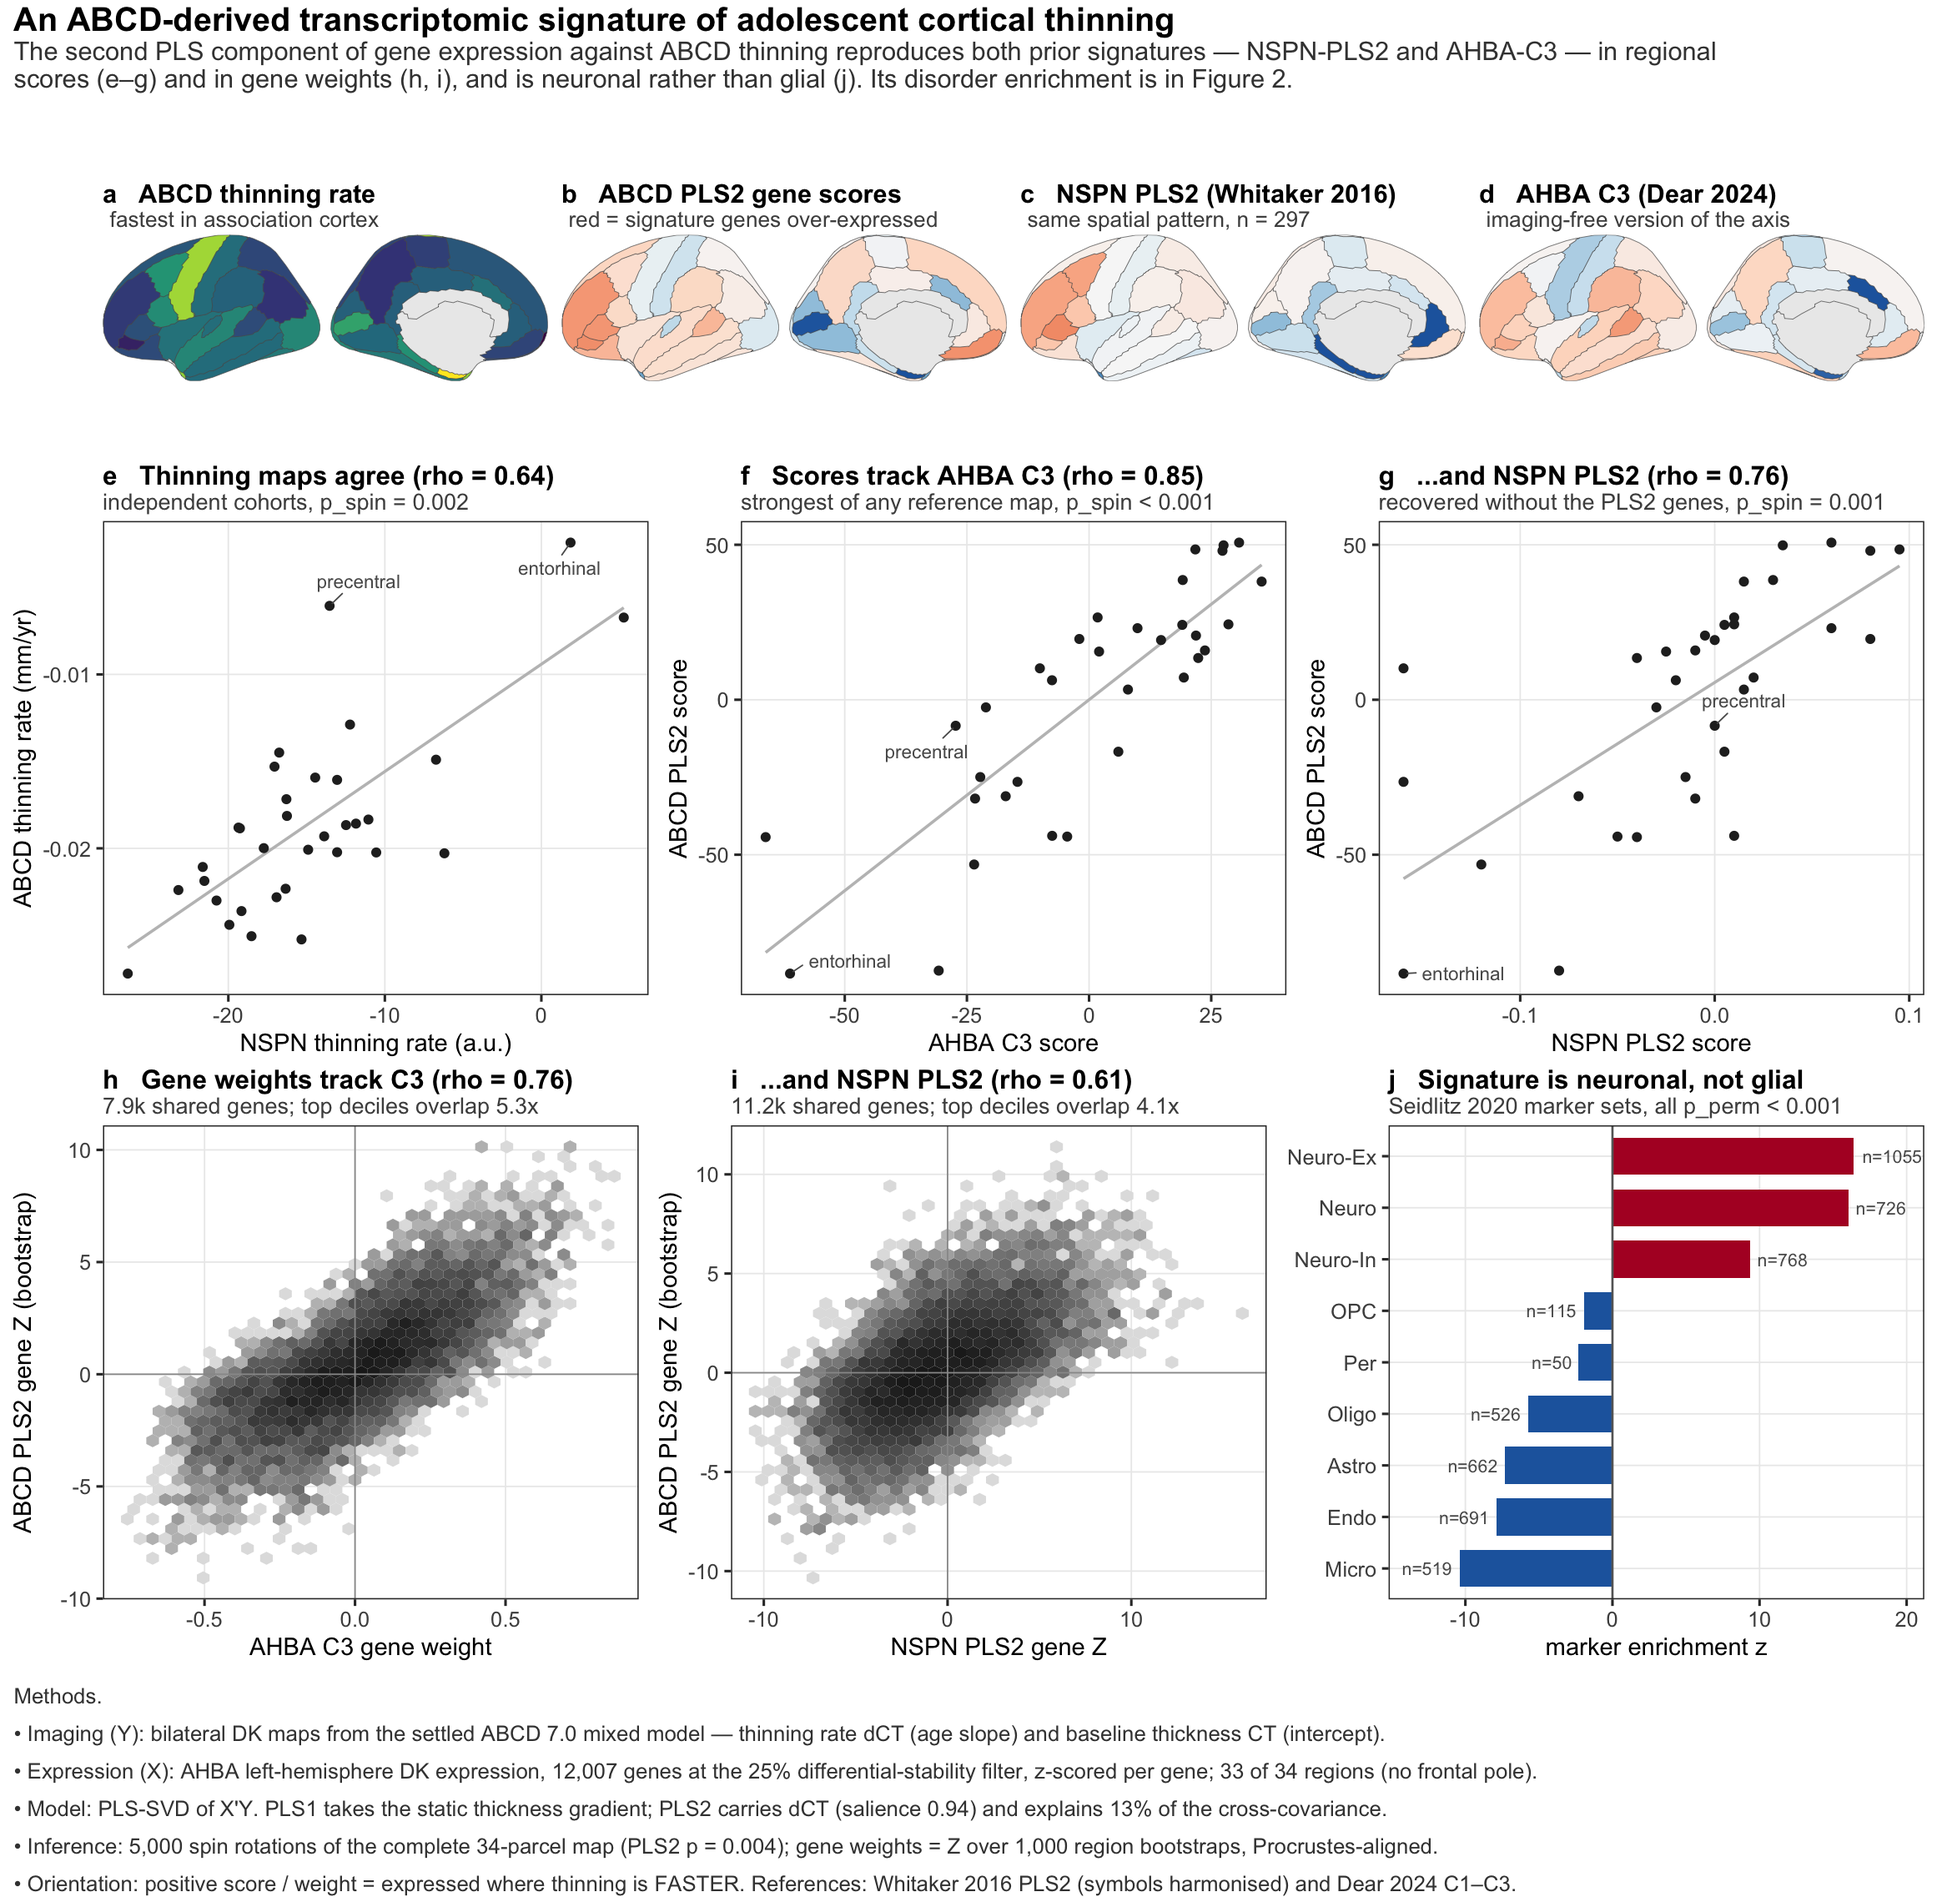
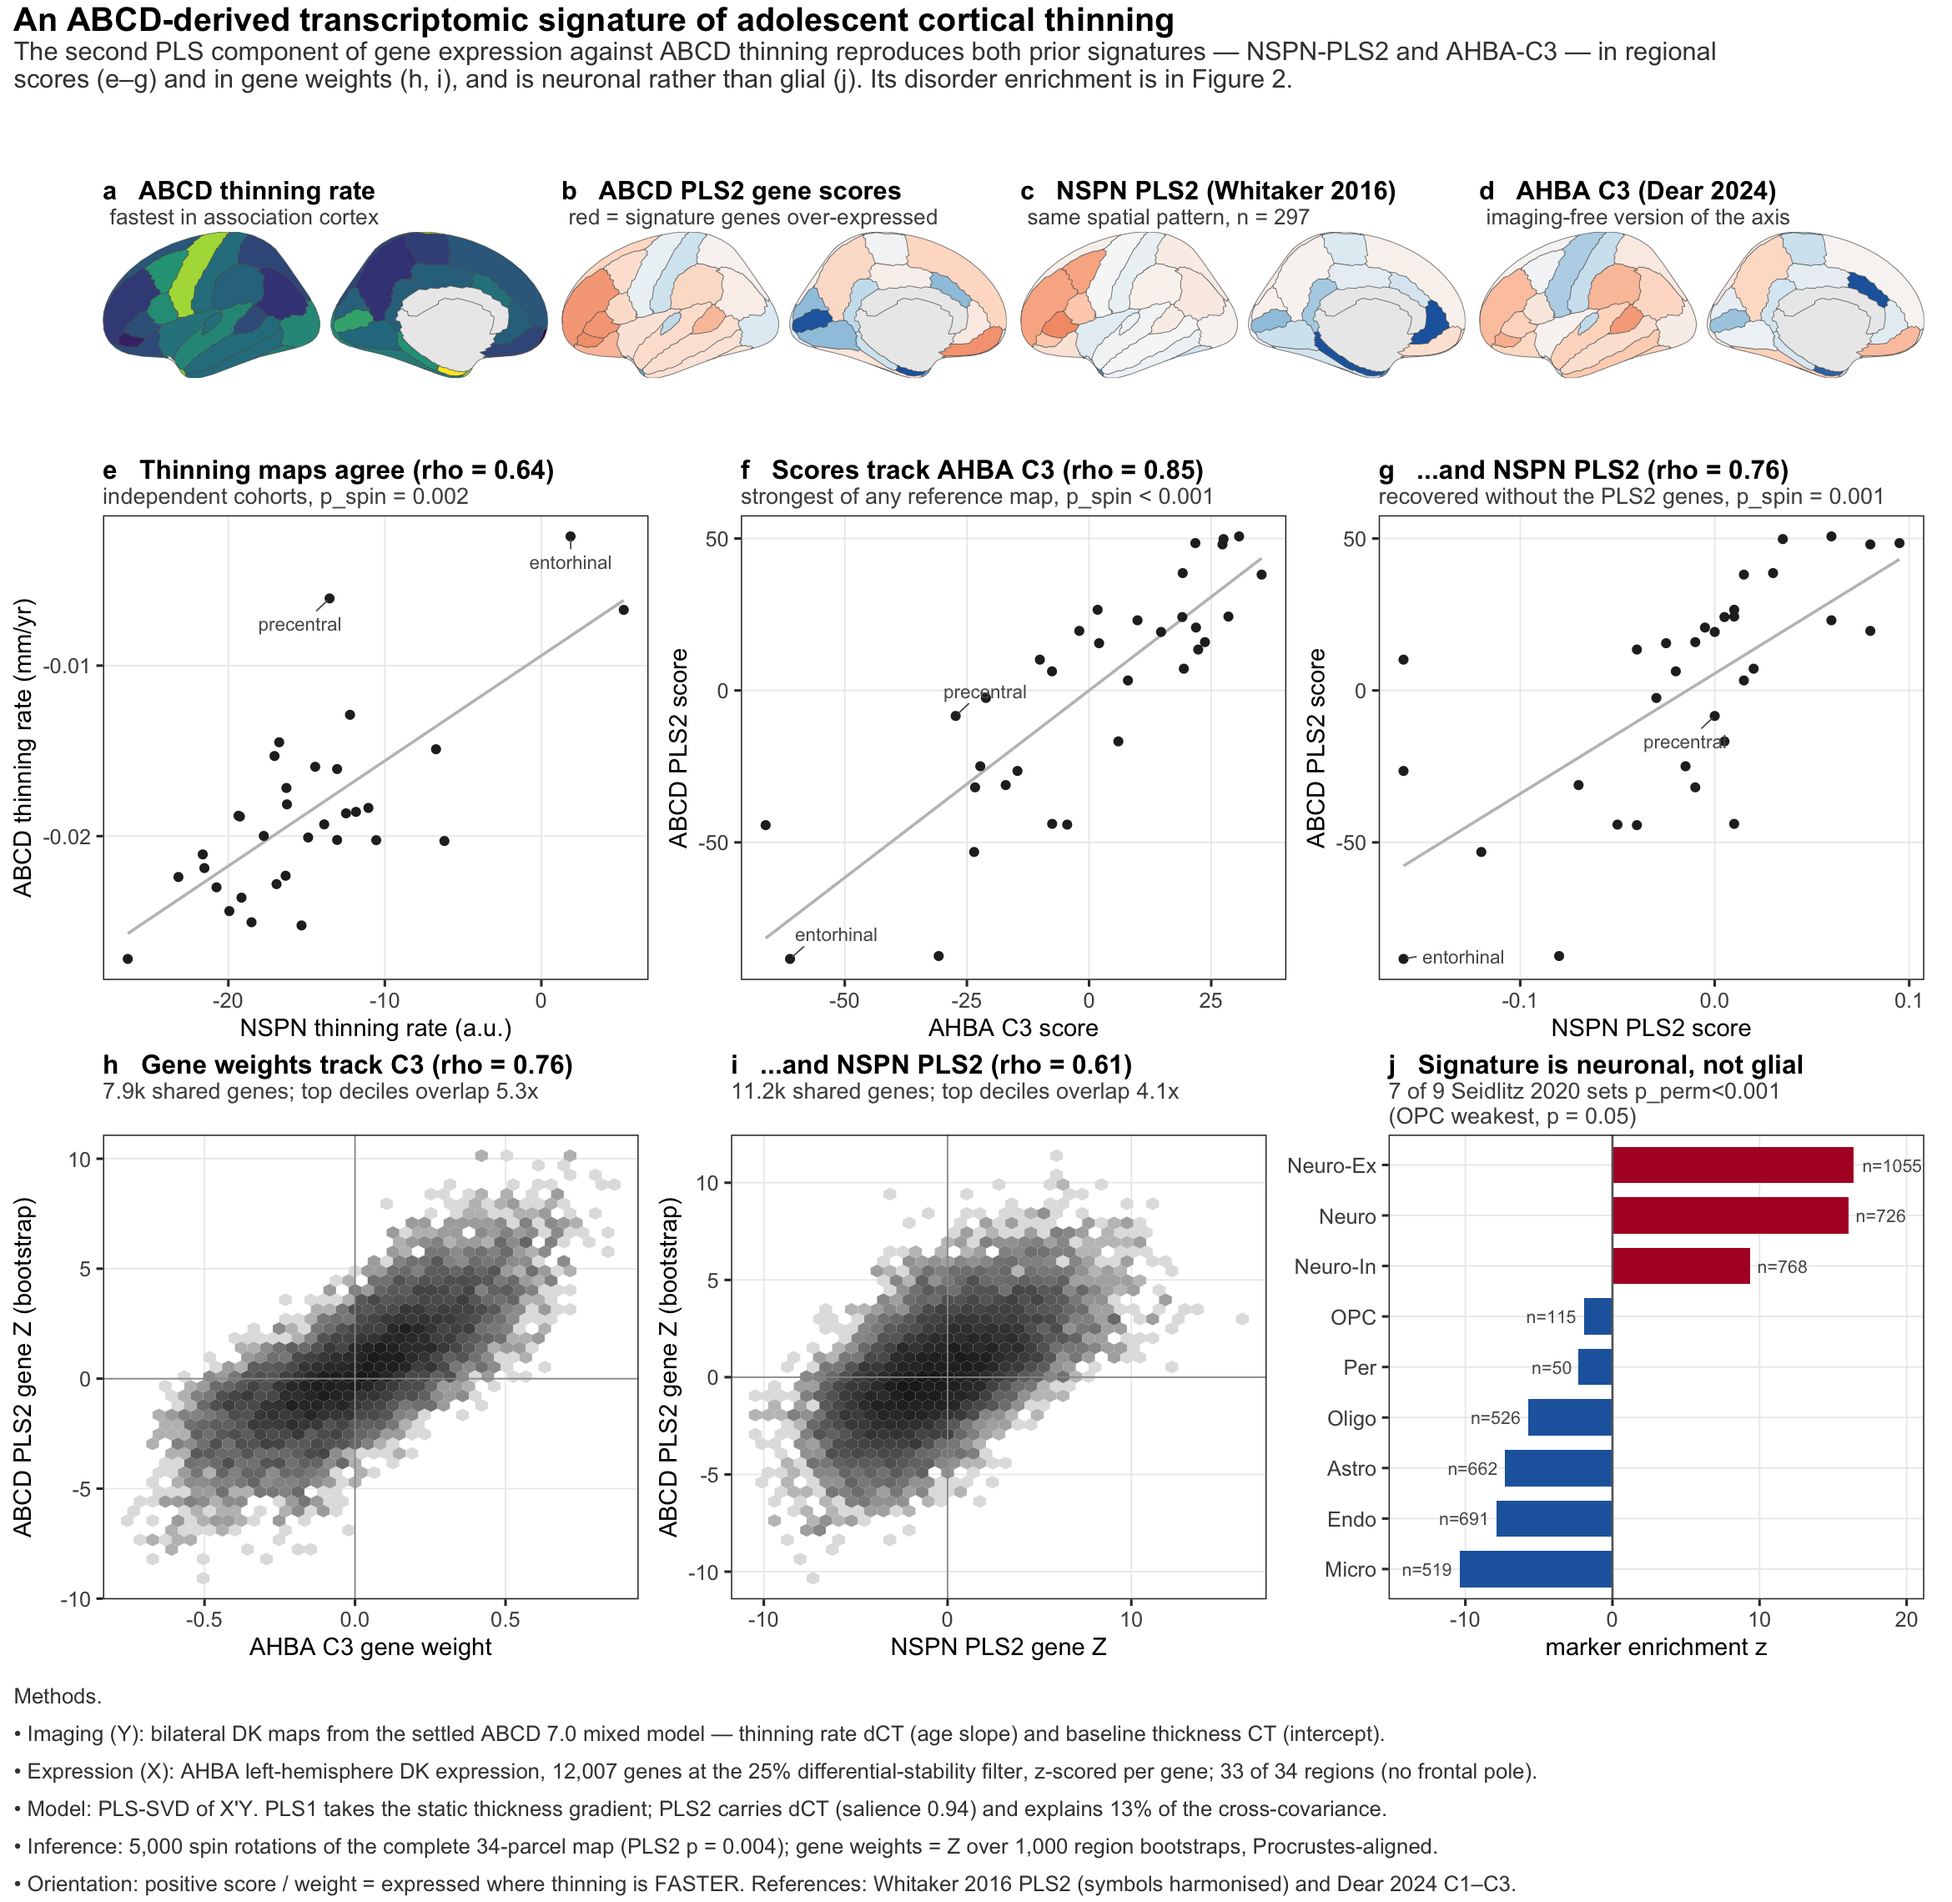
ahba_pls: correct three reported numbers; figures read every statistic from the results tables
- DS-filter stability is rho 0.995-0.999 between adjacent filters and
  0.981-0.998 across the ds0/ds50 extremes, not 'rho >= 0.99' throughout.
- opt3 SCZ gene-property p = 0.008 (was 0.009); C3 | ABCD PLS2 MDD p = 1e-5
  (was 2e-5).
- The cell-class panel said 'all p_perm < 0.001'; OPC (0.052) and pericytes
  (0.019) are not, so the subtitle now computes the count and names the
  weakest set from the table.
- Figure 1's gene-panel rho and n now come from concordance_weights.tsv with
  an assertion on n, instead of being recomputed at plot time, so 'the figure
  scripts fit nothing' is literally true.
- Note in the README that the MAGMA .genes.raw inputs are gitignored and must
  be re-fetched from the cluster on a fresh clone.
- Drop the superseded matplotlib figure code (06/09) and code/figstyle.py:
  they wrote the same PNG paths as the R scripts.

diff --git a/ahba_pls/README.md b/ahba_pls/README.md
@@ -60,7 +60,9 @@ NSPN's 308 — power is bounded and DS-filter sensitivity matters.
 
 **GWAS gene sets for H2.** SCZ: Trubetskoy 2022 prioritised / fine-mapped /
 locus pool (`AHBA/data/gwas/`, and the sets used in `hpc/` MAGMA). MDD: Adams 2025.
-MAGMA gene-level Z for SCZ and MDD: `../hpc/work/results/magma/{SCZ,MDD}.genes.raw`.
+MAGMA gene-level Z for SCZ and MDD: `../hpc/work/results/magma/{SCZ,MDD}.genes.raw` — present on this
+machine but **gitignored**, so on a fresh clone they must be re-fetched from the cluster before
+`08_magma_gene_property.py` will run.
 
 ## Layout
 
@@ -112,7 +114,7 @@ Signs above are reported in the *thinning* orientation (positive = higher expres
 Reading:
 - **dCT alone does not isolate the signature.** Its gene vector loads equally on C1 (the dominant static axis) and C3, and it is only marginal under the spin null. The thinning map carries the static transcriptional gradient because thinning rate covaries with baseline thickness / myelination.
 - **Adding CT as a second Y column absorbs the static axis into PLS1** (opt2 PLS1 weights ρ = −0.92 with C1) and leaves a spin-significant PLS2 that is the C3-like thinning signature at both levels — the same structure as NSPN, where the thinning signal also appeared as the second component.
-- The dCT-carrying components of options 2, 3 and 4 are one signature (pairwise weight ρ 0.83–0.94) and are stable across DS filters (ρ ≥ 0.99 between ds0/ds25/ds50), so gene filtering is not the limiting factor here as it was for deriving C3 by PCA.
+- The dCT-carrying components of options 2, 3 and 4 are one signature (pairwise weight ρ 0.83–0.94) and are stable across DS filters (weight ρ = 0.995–0.999 between adjacent filters, 0.981–0.998 between the ds0/ds50 extremes), so gene filtering is not the limiting factor here as it was for deriving C3 by PCA.
 - The ABCD thinning map itself matches the NSPN thinning map (ρ = 0.64, p_spin = 0.002), so the replication is not an artefact of a shared atlas.
 
 **Lead signature = option 2, PLS2, ds25** (`results/lead_signature_weights.tsv`, `lead_signature_scores.csv`). Top-decile overlap with C3 top decile 5.3×, with NSPN-PLS2 4.1× (hypergeometric p ≈ 0). Top genes: *AGBL4, CHRM3, CPNE8, PRSS12, LRRTM4, RAPGEF2, CCK*; bottom: *CAPN2, GIT2, PDE9A, HDAC1, MCM3, HLA-E*. Cell-class markers (Seidlitz 2020 compilation): neuronal (Ex, In) strongly positive, all glial/vascular classes negative (`lead_celltype_enrichment.tsv`; z values are descriptive — genes are not independent).
@@ -142,7 +144,7 @@ No SCZ set is enriched in the thinning signature by this test; the MDD high-conf
 | ABCD PLS2 ds25 | 0.028 (0.022) | 0.028 (0.021) |
 | ABCD PLS2 ds50 | 0.034 (0.034) | 0.041 (0.006) |
 | dCT alone (opt 1) | 0.041 (0.001) | 0.031 (0.010) |
-| dCT+dT1T2 PLS2 (opt 3) | 0.033 (0.009) | 0.039 (0.001) |
+| dCT+dT1T2 PLS2 (opt 3) | 0.033 (0.008) | 0.039 (0.001) |
 | static PLS1 (control) | 0.026 (0.037) | 0.015 (0.20) |
 | AHBA C1 | 0.026 (0.09) | 0.008 (0.58) |
 | **AHBA C3** | **0.064 (7e-5)** | **0.075 (1e-6)** |
@@ -150,7 +152,7 @@ No SCZ set is enriched in the thinning signature by this test; the MDD high-conf
 
 The thinning signature is positively associated with both SCZ and MDD gene-level association at every DS level and for every Y-option that isolates it — effect sizes ≈ half of C3's. Top-decile indicators are weaker (opt2 ds0 SCZ p = 0.03; others n.s.), i.e. the effect is spread along the continuum rather than concentrated in the extreme genes.
 
-**C. Conditional models** (shared universe n = 6,672): ABCD PLS2 keeps its association when conditioned on C1 (SCZ p = 0.004, MDD 0.002) or on the static PLS1 (0.008, 0.002), so it is not the static gradient. But conditioned on **C3 it drops to zero** (SCZ β = −0.01 p = 0.62; MDD −0.03 p = 0.17), whereas C3 conditioned on ABCD PLS2 retains its signal (SCZ p = 0.006, MDD 2e-5). ABCD PLS2 and NSPN PLS2 are mutually attenuating rather than nested: in the joint model neither SCZ coefficient survives (ABCD PLS2 p = 0.36, NSPN PLS2 p = 0.085, from p = 0.014 and 0.004 alone), while for MDD only ABCD PLS2 retains its association (p = 0.015 vs 0.87).
+**C. Conditional models** (shared universe n = 6,672): ABCD PLS2 keeps its association when conditioned on C1 (SCZ p = 0.004, MDD 0.002) or on the static PLS1 (0.008, 0.002), so it is not the static gradient. But conditioned on **C3 it drops to zero** (SCZ β = −0.01 p = 0.62; MDD −0.03 p = 0.17), whereas C3 conditioned on ABCD PLS2 retains its signal (SCZ p = 0.006, MDD 1e-5). ABCD PLS2 and NSPN PLS2 are mutually attenuating rather than nested: in the joint model neither SCZ coefficient survives (ABCD PLS2 p = 0.36, NSPN PLS2 p = 0.085, from p = 0.014 and 0.004 alone), while for MDD only ABCD PLS2 retains its association (p = 0.015 vs 0.87).
 
 Reading: the data-driven ABCD signature recovers the disorder-relevant part of C3, but does not add to it — C3 (derived from AHBA alone, with careful gene filtering) remains the sharper gene ranking for SCZ/MDD. This is the expected order: the ABCD component is a 33-region projection and can only capture the part of C3 that is expressed in the DK-resolution thinning map. The gain from ABCD is therefore in *validation* (an independent, 20× larger imaging sample reproduces the signature and its disorder enrichment) rather than in a sharper gene list.
 
@@ -178,5 +180,5 @@ per-option weight tables, spin nulls, MAGMA run directories).
 
 - 2026-09-12: ds75 dropped (user). H3 deferred until a clean ABCD GWAS exists; H4 deferred to a cluster run (user).
 - All PLS runs on the 33 AHBA-covered bilateral DK regions; the missing region is recorded in `data/`.
-- 2026-09-12: figures are built in R (`ggplot2` + `patchwork` + `ggseg` 2.2.1 from CRAN, env `ahba-pls-r`), not matplotlib. ggseg's R atlas renders frontal and temporal pole correctly, unlike the python polygon set. The R scripts read saved tables only — no statistic is recomputed or hardcoded at plot time — and DK polygons are cached to `data/dk_polygons.csv`.
+- 2026-09-12: figures are built in R (`ggplot2` + `patchwork` + `ggseg` 2.2.1 from CRAN, env `ahba-pls-r`), not matplotlib. ggseg's R atlas renders frontal and temporal pole correctly, unlike the python polygon set. The R scripts fit nothing and hardcode nothing: every statistic printed on a figure is read from the `results/` table it plots. DK polygons are cached to `data/dk_polygons.csv`.
 - Figure conventions: one-line interpretation per panel subtitle, overall interpretation as the figure subtitle, methods as short bullets in the caption.
